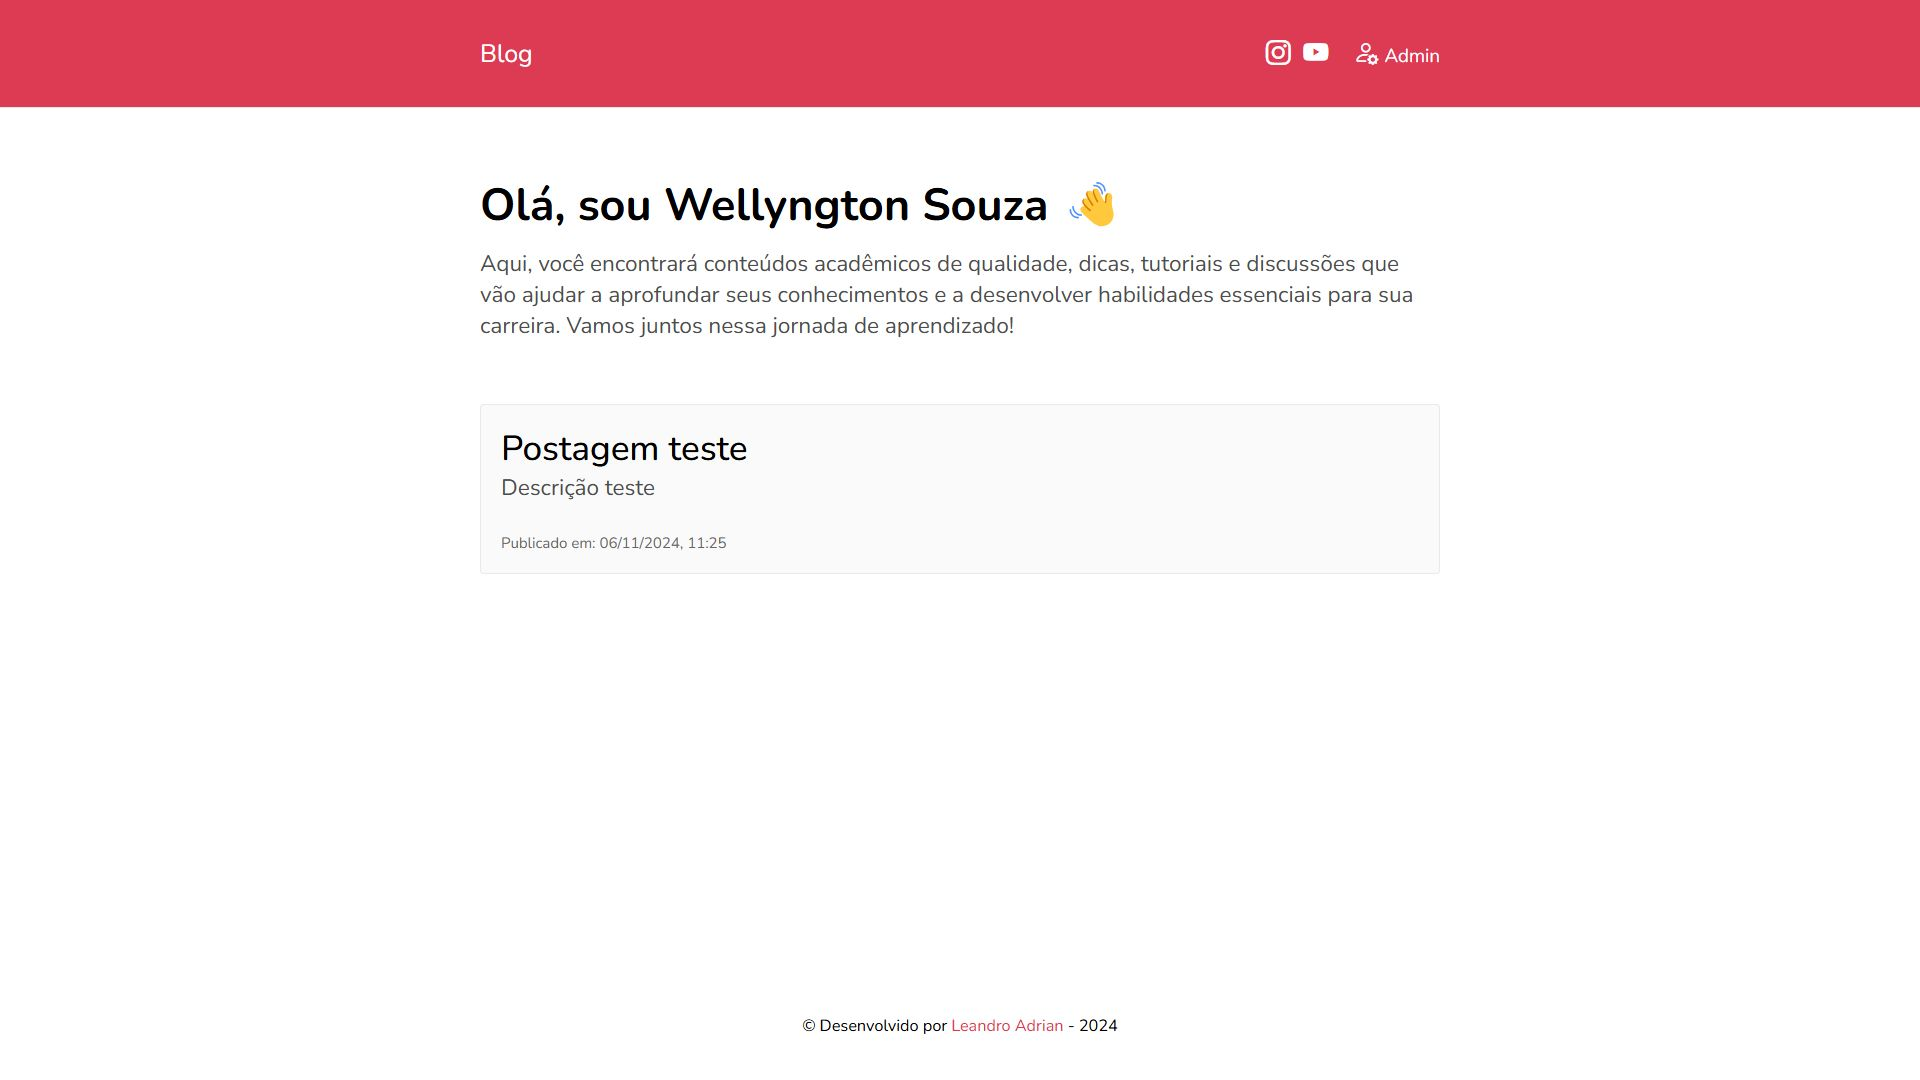
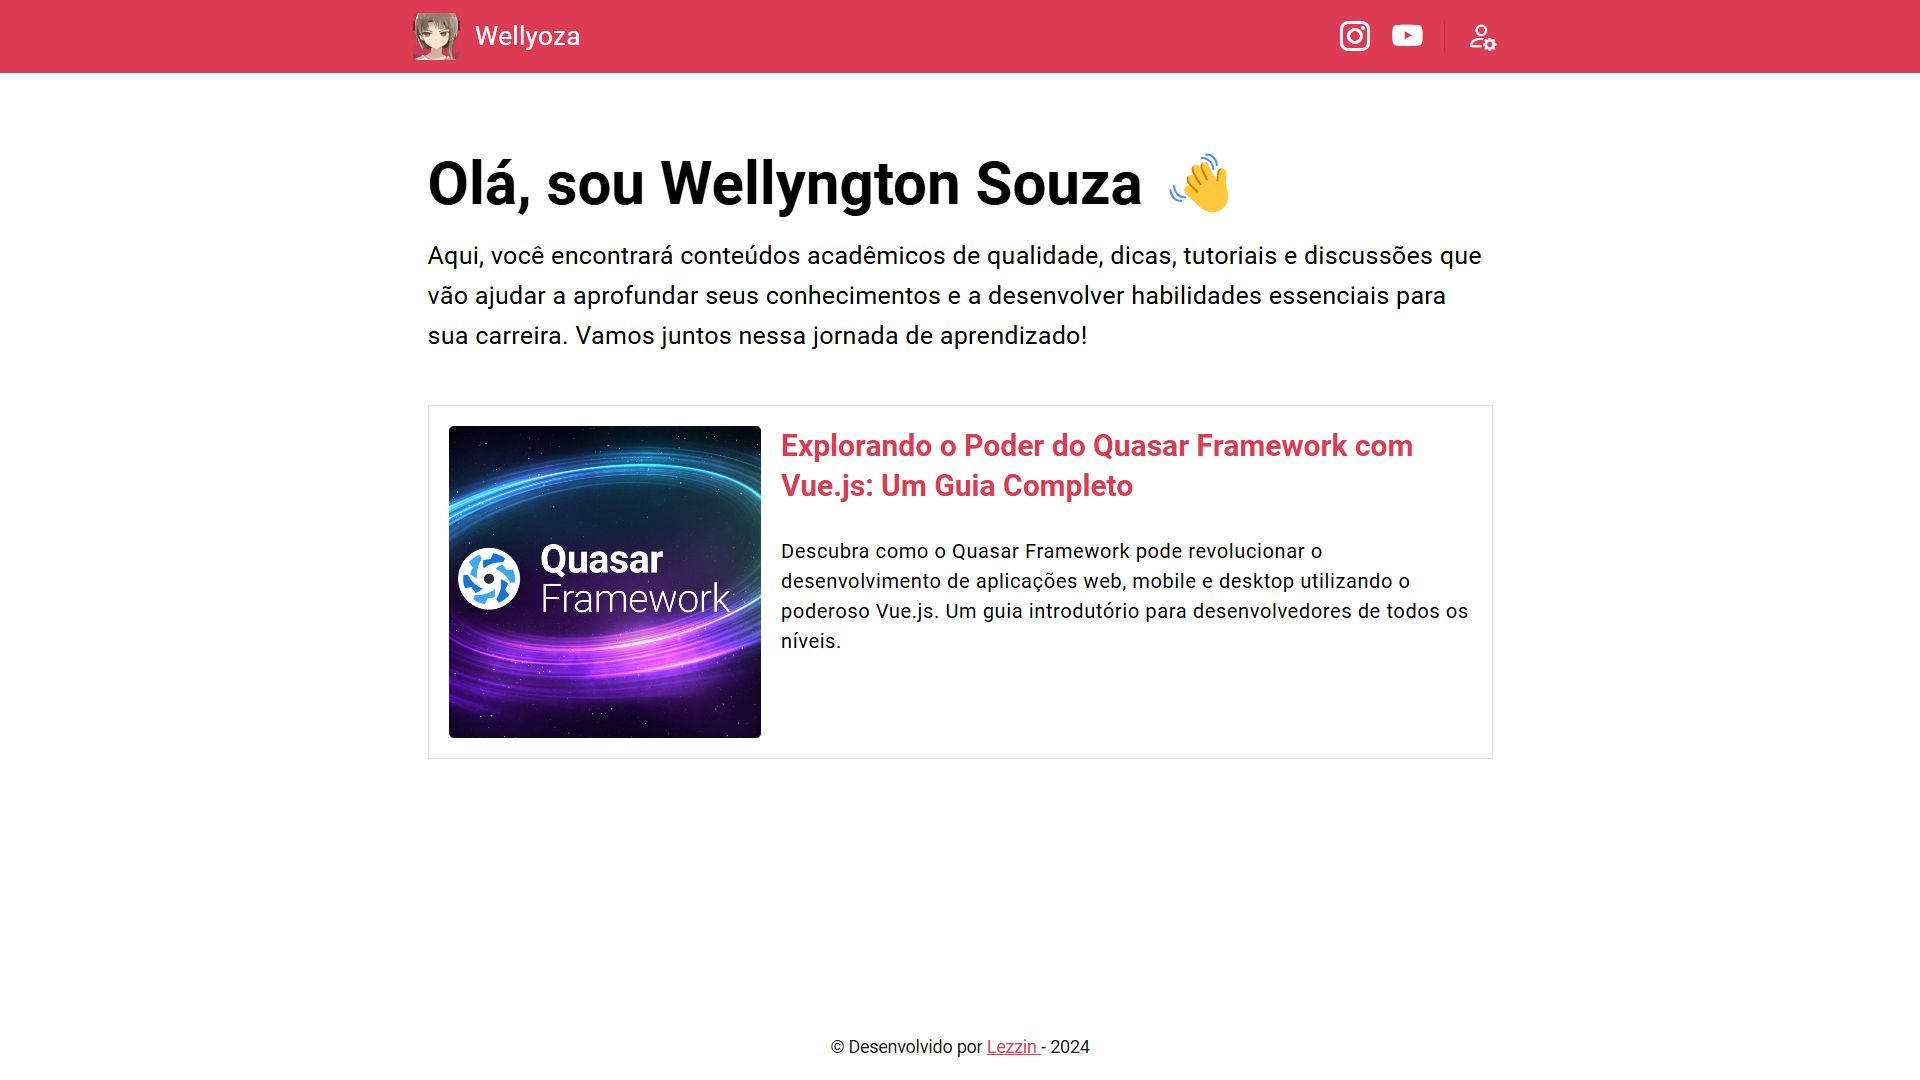
change some styles and add skill descrption

diff --git a/src/mocks/projects.js b/src/mocks/projects.js
@@ -1,35 +1,35 @@
 const projects = [
-    {
-        "image": "erupcao-das-letras.webp",
-        "imageDetails": [
-            {
-                src: "erupcao-1.png",
-                label: "Página como estava antes do freelance"
-            },
-            {
-                src: "erupcao-2.png",
-                label: "Página inicial do feed (não atualizado)"
-            }
-        ],
-        "name": "Erupção das Letras",
-        "description": "Plataforma de rede social para autores e leitores, permitindo a publicação, venda direta e apoio financeiro de obras.",
-        "detailedDescription": `
-            <p>Este foi o meu primeiro projeto como freelancer, iniciado em junho de 2024, apenas 4 meses após minha colação de grau como Técnico em Informática. Foi um dos maiores desafios da minha carreira até o momento. Nunca havia trabalhado com várias das tecnologias e funcionalidades solicitadas, como a integração com plataformas de pagamento e envio de emails, o que exigiu bastante pesquisa e aprendizado durante o desenvolvimento.</p>
+    // {
+    //     "image": "erupcao-das-letras.webp",
+    //     "imageDetails": [
+    //         {
+    //             src: "erupcao-1.png",
+    //             label: "Página como estava antes do freelance"
+    //         },
+    //         {
+    //             src: "erupcao-2.png",
+    //             label: "Página inicial do feed (não atualizado)"
+    //         }
+    //     ],
+    //     "name": "Erupção das Letras",
+    //     "description": "Plataforma de rede social para autores e leitores, permitindo a publicação, venda direta e apoio financeiro de obras.",
+    //     "detailedDescription": `
+    //         <p>Este foi o meu primeiro projeto como freelancer, iniciado em junho de 2024, apenas 4 meses após minha colação de grau como Técnico em Informática. Foi um dos maiores desafios da minha carreira até o momento. Nunca havia trabalhado com várias das tecnologias e funcionalidades solicitadas, como a integração com plataformas de pagamento e envio de emails, o que exigiu bastante pesquisa e aprendizado durante o desenvolvimento.</p>
 
-            <p>Inicialmente, a tarefa era criar um feed simples em formato grid para postagens, com opções de curtir e não curtir. Porém, conforme o projeto avançava, surgiram novas demandas, como sistema de comentários, favoritos, notificações, renderização de PDFs, integração de pagamento com Stripe para compra e venda de livros, criação de páginas de perfil, login com Google, seguir/ser seguido e carregamento dinâmico de conteúdo com AJAX, além de uma página de contato e confirmação de e-mail.</p>
+    //         <p>Inicialmente, a tarefa era criar um feed simples em formato grid para postagens, com opções de curtir e não curtir. Porém, conforme o projeto avançava, surgiram novas demandas, como sistema de comentários, favoritos, notificações, renderização de PDFs, integração de pagamento com Stripe para compra e venda de livros, criação de páginas de perfil, login com Google, seguir/ser seguido e carregamento dinâmico de conteúdo com AJAX, além de uma página de contato e confirmação de e-mail.</p>
 
-            <p>Cada nova funcionalidade representou um desafio técnico, mas, com dedicação, consegui implementar todas com sucesso. No fim, o cliente ficou muito satisfeito com o resultado, o que foi extremamente gratificante e me deu a confiança para encarar novos projetos no futuro."</p>
+    //         <p>Cada nova funcionalidade representou um desafio técnico, mas, com dedicação, consegui implementar todas com sucesso. No fim, o cliente ficou muito satisfeito com o resultado, o que foi extremamente gratificante e me deu a confiança para encarar novos projetos no futuro."</p>
 
-            <small>(Algumas das funcionalidades não foram publicadas)</small>
-        `,
-        "skills": [
-            "PHP",
-            "jQuery",
-            "MySQL",
-            "Stripe"
-        ],
-        "deployUrl": "https://erupcaodasletras.com.br"
-    },
+    //         <small>(Algumas das funcionalidades não foram publicadas)</small>
+    //     `,
+    //     "skills": [
+    //         "PHP",
+    //         "jQuery",
+    //         "MySQL",
+    //         "Stripe"
+    //     ],
+    //     "deployUrl": "https://erupcaodasletras.com.br"
+    // },
     {
         "image": "taskflow.webp",
         "imageDetails": [
@@ -66,7 +66,6 @@ const projects = [
         ],
         "deployUrl": "https://mytaskflow.vercel.app",
         "codeUrl": "https://github.com/lezzin/tasks_manager",
-        "docsUrl": "https://docs.google.com/document/d/1OXHMNCdr_GWK0cbCZQPVm428zt4fm2YkKl_5KFTmCk0/edit?usp=drive_link"
     },
     {
         "image": "ferramentas-dev.webp",
@@ -104,7 +103,6 @@ const projects = [
         ],
         "deployUrl": "https://mydevresources.vercel.app",
         "codeUrl": "https://github.com/lezzin/dev_resources",
-        "docsUrl": "https://docs.google.com/document/d/13NZD8NHy3Qt7Mof3ScI66R2LQpoKLho2C5uHUW1VJhs/edit?usp=sharing"
     },
     {
         "image": "blog.webp",
@@ -115,6 +113,10 @@ const projects = [
             },
             {
                 src: "blog-2.png",
+                label: "Página da publicação"
+            },
+            {
+                src: "blog-3.png",
                 label: "Página do administrador"
             }
         ],
@@ -125,10 +127,10 @@ const projects = [
         `,
         "skills": [
             "Vue.js",
-            "Firebase"
+            "Firebase",
+            "Quasar"
         ],
         "deployUrl": "https://wellyngton-blog.vercel.app/",
-        "docsUrl": "https://docs.google.com/document/d/1UywrvVQGmPB1CkBdG7PX4AfZdiOekvqlkE05uMfsb6c/edit?usp=drive_link"
     },
     {
         "image": "rockscape.webp",
@@ -157,7 +159,6 @@ const projects = [
         ],
         "deployUrl": "https://rockscape.vercel.app/",
         "codeUrl": "https://github.com/lezzin/rock_scape",
-        "docsUrl": "https://docs.google.com/document/d/1YzCcnLMaM-Xa8uxCCYfcodcgb0WCPSJPcezIJZuDmyE/edit?usp=sharing"
     },
     {
         "image": "volei.webp",
@@ -181,7 +182,6 @@ const projects = [
         ],
         "deployUrl": "https://placar-volei.vercel.app/",
         "codeUrl": "https://github.com/lezzin/placar_volei",
-        "docsUrl": "https://docs.google.com/document/d/1D-D_juSptjhfYBQKPmFI8yjv8h6LqUr4GLOfJxoSOTY/edit?usp=sharing"
     }
 ]
 

diff --git a/src/sections/Presentation.vue b/src/sections/Presentation.vue
@@ -14,23 +14,26 @@ import { imageUrl } from "../utils/urlUtils";
                     <h3 class="section-title interval-small">Apresentação</h3>
 
                     <p class="interval-small">
-                        Sou Leandro Adrian da Silva, mais conhecido como Lezzin. Formado em Técnico em Informática e
-                        atualmente cursando Engenharia de Software, tenho experiência com diversas tecnologias como
-                        HTML, CSS, JavaScript, PHP e MySQL, além de frameworks modernos como Vue.js e CodeIgniter.
+                        Sou Leandro Adrian da Silva, mais conhecido como Lezzin.
+                        <strong>Formado em Técnico em Informática e atualmente cursando Engenharia de Software</strong>,
+                        tenho experiência com diversas tecnologias como
+                        <strong>HTML, CSS, JavaScript, PHP e MySQL</strong>,
+                        além de frameworks modernos como
+                        <strong>Vue.js e CodeIgniter.</strong>
                     </p>
 
                     <p class="interval-small">
-                        Minha trajetória combina técnica e criatividade, sempre com foco na resolução de problemas e na
-                        construção de soluções completas e eficientes, desde a concepção até a implementação final.
-                        Gosto de explorar novas tecnologias e enfrentar desafios que me permitam aprimorar minhas
-                        habilidades.
+                        Minha trajetória combina <strong>técnica e criatividade</strong>, sempre com foco na
+                        <strong>resolução de problemas</strong> e na
+                        <strong>construção de soluções completas e eficientes</strong>, desde a concepção até a
+                        implementação final. Gosto de explorar novas tecnologias e enfrentar desafios que me permitam
+                        aprimorar minhas habilidades.
                     </p>
 
                     <p class="interval-small">
                         Vamos conversar e transformar suas ideias em realidade? Seja para colaborar como freelancer ou
                         para integrar uma equipe, estou pronto para fazer parte de novos projetos e criar algo incrível.
                     </p>
-
                     <SocialLinks />
                 </div>
             </div>

diff --git a/src/mocks/skills.js b/src/mocks/skills.js
@@ -1,0 +1,14 @@
+const skills = [
+    { name: "HTML", description: "Linguagem de marcação utilizada para estruturar conteúdos na web." },
+    { name: "CSS", description: "Linguagem de estilo usada para criar layouts e designs responsivos." },
+    { name: "JavaScript", description: "Linguagem de programação para adicionar interatividade e lógica à web." },
+    { name: "PHP", description: "Linguagem de script do lado do servidor para desenvolvimento de aplicações web dinâmicas." },
+    { name: "CodeIgniter", description: "Framework PHP leve para construção de aplicações web rápidas e eficientes." },
+    { name: "Vuejs", description: "Framework JavaScript progressivo para construção de interfaces de usuário." },
+    { name: "Quasar", description: "Framework baseado em Vue.js para criação de aplicações multiplataforma." },
+    { name: "jQuery", description: "Biblioteca JavaScript para simplificar a manipulação do DOM e chamadas AJAX." },
+    { name: "SASS", description: "Extensão de CSS que adiciona funcionalidades como variáveis e mixins." },
+    { name: "Bootstrap", description: "Framework CSS para desenvolvimento rápido e responsivo de interfaces web." }
+];
+
+export default skills;

diff --git a/src/sections/Skills.vue b/src/sections/Skills.vue
@@ -1,4 +1,5 @@
 <script setup>
+import { ref } from "vue";
 import Skill from "../components/skill/Skill.vue";
 
 const props = defineProps({
@@ -7,6 +8,16 @@ const props = defineProps({
         required: true
     }
 });
+
+function showDescription(value) {
+    description.value = value;
+}
+
+function hideDescription() {
+    description.value = '';
+}
+
+const description = ref('');
 </script>
 
 <template>
@@ -15,8 +26,11 @@ const props = defineProps({
             <h3 class="section-title delay-small">Habilidades</h3>
 
             <div class="skills">
-                <Skill v-for="(skill, index) in props.skills" :key="index" :skill="skill" />
+                <Skill v-for="(skill, index) in props.skills" :key="index" :skill="skill"
+                    @mouseover="showDescription(skill.description)" @mouseleave="hideDescription" />
             </div>
+
+            <p class="skill-description">{{ description }}</p>
         </div>
     </section>
 </template>
@@ -33,5 +47,11 @@ section {
     justify-content: center;
     flex-wrap: wrap;
     gap: 1rem;
+}
+
+.skill-description {
+    margin-top: 3rem;
+    min-height: 2rem;
+    text-align: center;
 }
 </style>

diff --git a/src/components/skill/Skill.vue b/src/components/skill/Skill.vue
@@ -3,17 +3,17 @@ import { iconUrl } from '../../utils/urlUtils';
 
 const props = defineProps({
     skill: {
-        type: String,
+        type: Object,
         required: true
     }
 });
 </script>
 
 <template>
-    <div class="skill interval-medium" tabindex="0" :aria-label="props.skill">
-        <img :src="iconUrl(`${props.skill}.svg`, 'skills')" class="skill-image"
-            :alt="`Logo da tecnologia ${props.skill}`" width="88" height="88" loading="lazy">
-        <p class="skill-name">{{ props.skill }}</p>
+    <div class="skill interval-medium" tabindex="0" :aria-label="props.skill.name">
+        <img :src="iconUrl(`${props.skill.name}.svg`, 'skills')" class="skill-image"
+            :alt="`Logo da tecnologia ${props.skill.name}`" width="88" height="88" loading="lazy">
+        <p class="skill-name">{{ props.skill.name }}</p>
     </div>
 </template>
 

diff --git a/src/components/project/Project.vue b/src/components/project/Project.vue
@@ -13,6 +13,7 @@ const props = defineProps({
     <article class="project interval-medium">
         <img class="project-image" :src="imageUrl(props.project.image, 'projects')" width="480" height="270"
             alt="Pré-visualização do projeto" loading="lazy">
+
         <div class="project-details">
             <div>
                 <h3 class="project-name">{{ props.project.name }}</h3>
@@ -24,7 +25,7 @@ const props = defineProps({
 
             <button type="button" class="btn success icon" @click="$emit('openDetails', props.project)">
                 <fa icon="circle-info" />
-                <span>Visualizar detalhes</span>
+                <span>Mais detalhes</span>
             </button>
         </div>
     </article>

diff --git a/src/sections/Projects.vue b/src/sections/Projects.vue
@@ -45,10 +45,8 @@ watch(isProjectDetailsActive, (value) => {
             <SkillFilter :projects="props.projects" @filter="filterProjectsBySkill" />
 
             <div class="projects">
-                <TransitionGroup>
-                    <Project v-for="(project, index) in filteredProjects" :key="index" :project="project"
-                        @openDetails="openProjectDetails" />
-                </TransitionGroup>
+                <Project v-for="(project, index) in filteredProjects" :key="index" :project="project"
+                    @openDetails="openProjectDetails" />
             </div>
 
             <a class="btn secondary delay-small" href="https://github.com/lezzin?tab=repositories" target="_blank"

diff --git a/src/sections/Home.vue b/src/sections/Home.vue
@@ -8,7 +8,6 @@ import { iconUrl } from '../utils/urlUtils';
             <div class="home-informations interval-small">
                 <p class="interval-small">Olá! sou o Leandro,</p>
                 <h1 class="interval-small">Desenvolvedor Full Stack</h1>
-                <h2 class="interval-small">com paixão por tecnologia e inovação</h2>
 
                 <div class="btn-group delay-medium">
                     <a href="#skills-section" class="btn out-white interval-small"
@@ -86,10 +85,6 @@ img {
         font-size: 8rem;
         font-weight: 500;
         line-height: 1;
-    }
-
-    h2 {
-        font-size: 2.4rem;
     }
 
     .btn-group {

diff --git a/src/components/project/ProjectDetails.vue b/src/components/project/ProjectDetails.vue
@@ -43,12 +43,6 @@ const closeImageView = () => {
                         <fa icon="code" />
                         Código-fonte
                     </a>
-                    <a class="btn dark-quaternary" role="button" :href="props.project.docsUrl" target="_blank"
-                        rel="noopener noreferrer" title="Acessar documentação do projeto no Drive"
-                        v-if="props.project.docsUrl">
-                        <fa icon="file-code" />
-                        Documentação
-                    </a>
                 </div>
 
                 <div class="details">

diff --git a/src/App.vue b/src/App.vue
@@ -11,8 +11,8 @@ import Projects from './sections/Projects.vue';
 
 import Loader from './components/shared/Loader.vue';
 
-import projectsJson from "./data/projects.js";
-import skillsJson from "./data/skills.js";
+import projectsJson from "./mocks/projects.js";
+import skillsJson from "./mocks/skills.js";
 import Contact from "./sections/Contact.vue";
 
 const isLoading = ref(true);
